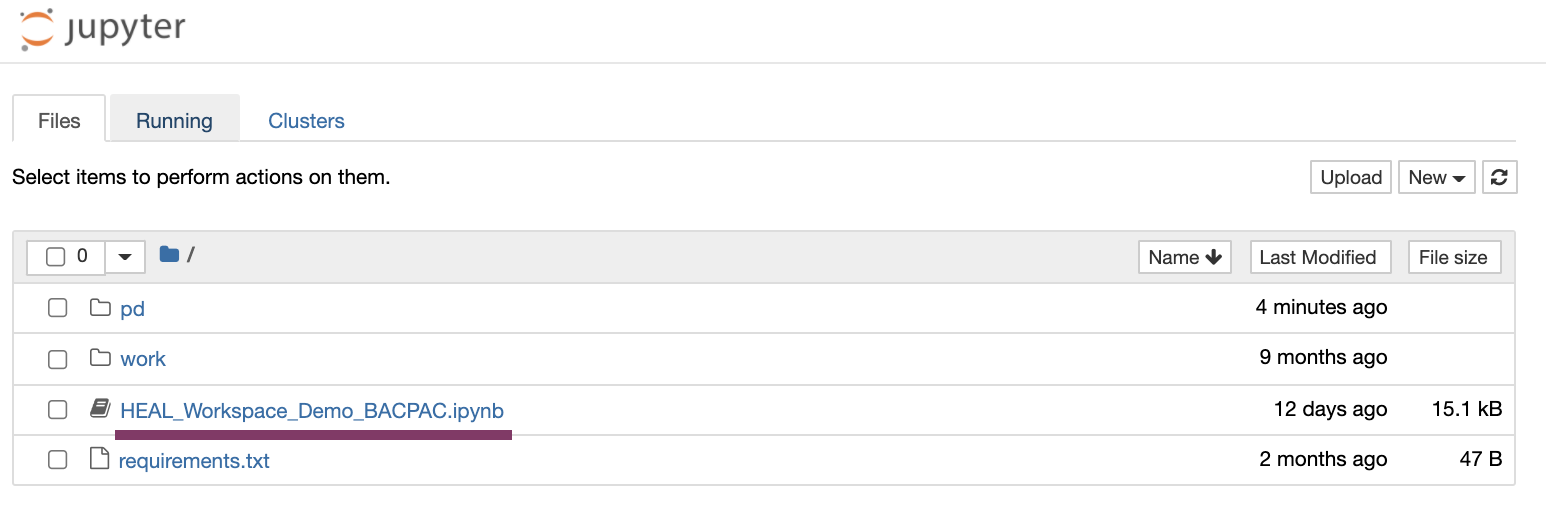
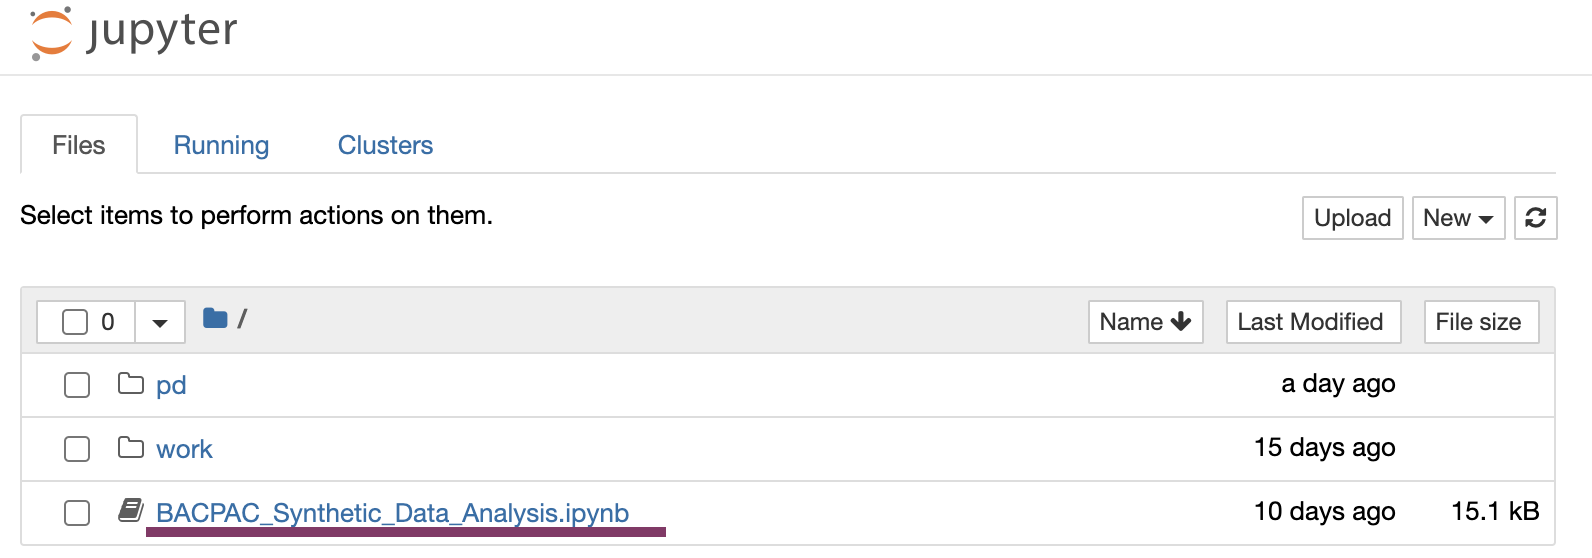
set2

Changed region(s): [[0.0, 0.1765, 0.9935, 1.0], [0.0, 0.0, 0.1552, 0.1176]]

diff --git a/qa-heal.planx-pla.net/dashboard/Public/documentation/index.html b/qa-heal.planx-pla.net/dashboard/Public/documentation/index.html
@@ -84,7 +84,6 @@
                         <a href="#AvailableWorkspaceTools">Environments, Languages, and Tools</a>
                         <a href="#PythonRInJupyter">Python 3 and RStudio in Jupyter</a>
                         <a href="#STATAinNotebooks">STATA in Jupyter</a>
-                        <a href="#RStudioEnvironment">RStudio environment</a>
                         <a href="#TroubleshootingWorkspaces">Troubleshooting</a>
                         <a href="#AutomaticWorkspaceShutdown">Automatic Workspace Shutdown</a>
 
@@ -629,7 +628,7 @@
                             </li>
                             <li>
                                 <a href="#Workspaces"
-                                    style="background-image: url('img/grid_workspace_color.png');"></a>
+                                    style="background-image: url('img/workspace_flavors.png');"></a>
                                 <div class="details">
                                     <h6><a href="#Workspaces">Workspaces</a></h6>
                                     <p class="image-author">Access data across multiple resources and perform analyses
@@ -1182,24 +1181,6 @@
                                 </li>
                             </ol>
 
-                            <p>
-                                If users work in the <span style="font-weight: bold">RStudio</span> environment, click
-                                "Terminal" on the left hand side. The home
-                                directory is
-                                <code>
-                        /home/rstudio
-                    </code>.
-                                In order to find the files, type in
-                                <code>
-                        cd ../../data/healdata.org
-                    </code>
-                                and
-                                <code>
-                        ls
-                    </code>
-                                to list all manifests.
-                                <a href="#RStudioEnvironment">Read more here</a>.
-                            </p>
 
 
 
@@ -1232,7 +1213,7 @@
                                         href="https://healdata.org/workspace">healdata.org/workspace</a>, users will
                                     discover a list of pre-configured virtual machine (VM) images, as shown below.
                                     <br> <br>
-                                    <img class="drop-shadow" src="img/workspace_flavors__.png" alt="Workspace_flavors"
+                                    <img class="drop-shadow" src="img/workspace_flavors.png" alt="Workspace_flavors"
                                         style="width:80%">
                                     <figcaption style="width:100%">
                                         Available workspaces on the HEAL Platform (top). Users can link accounts from
@@ -1273,13 +1254,13 @@
                                         They are your personal copies! <br><br>
                                         <ul>
                                             <li>
-                                                <em>Notebooks in Python</em>: (1) Bacpac Synthetic Data Analysis,
+                                                <em>Notebooks in Python</em>: (1) BACPAC Synthetic Data Analysis,
                                                 (2) JCOIN Tracking Opioid Stigma,
                                                 (3) Opioid Overdose Trajectories,
                                                 (4) Opioid Prevalence And Overdoses
                                             </li>
                                             <li>
-                                                <em>Notebooks in RStudio</em>: (1) OEPS and Opioid Toolkit
+                                                <em>Notebooks in RStudio</em>: (1) Opioid Environment Toolkit and OEPS
                                             </li>
                                         </ul>
                                     </li>
@@ -1438,7 +1419,7 @@
                                     RStudio<br>
                                     <img src="img/workspace_RStudio_logo.png" alt="workspace_RStudio_logo"
                                         style="width:20%"> <br>
-                                    (<a href="#RStudioEnvironment">read more</a>)
+                                    
 
                                 </li>
                             </ul>
@@ -1547,32 +1528,6 @@
                             </p>
 
 
-                            <h4 id="RStudioEnvironment" class="section-title">RStudio Environment</h4>
-                            <p>
-                                Users can make use of the preinstalled RStudio environment by launching the following
-                                workspace:
-                            </p>
-                            <img class="drop-shadow" src="img/workspace_RStudio_env.png" alt="workspace_RStudio_env"
-                                style="width:20%">
-                            <figcaption style="width:100%">
-                                Launch this workspace to enter the RStudio environment.
-                            </figcaption><br><br>
-                            <img class="drop-shadow" src="img/workspace_RStudio_env_landing.png"
-                                alt="workspace_RStudio_env_landing" style="width:80%">
-                            <figcaption style="width:100%">
-                                Landing page of the RStudio environment.
-                            </figcaption>
-
-                            <p>
-                                Find exported data files in manifests by selecting "Terminal" on the left side, and
-                                typing
-                                <code>
-                    cd ../../data/healdata.org
-                </code>
-                            </p>
-
-
-
                             <h4 id="TroubleshootingWorkspaces" class="section-title">Troubleshooting</h4>
                             <ul>
                                 <li>
@@ -1616,36 +1571,32 @@
                                 platform.
                             </p>
                             <blockquote>
-                                This tab acts as a <span style="font-weight: bold"><a
-                                        href=#CurrentlyAvailableNotebooks>'visual table of contents’</span></a>
+                                This tab acts as a <a
+                                        href=#CurrentlyAvailableNotebooks>'visual table of contents’</a>
                                 of available HEAL datasets.
                             </blockquote>
-                            <p></p>
-                            <img class="drop-shadow" src="img/grid_notebooks_color_.png"
-                                alt="grid_notebooks_color_" style="width:50%">
+                            <p>
+                                <span style="font-weight: bold;">“HEAL Static Notebooks” </span> <br>
+                                This video introduces users to the Static Notebooks page,
+                                where users can browse Jupyter notebook demos to explore
+                                previous data analyses on the HEAL platform.<br><br>
+                                <video controls width="500">
+
+                                    <source src="videos/Static NB HEAL video 2021-08-30.mp4" type="video/webm">
+
+                                    <source src="videos/Static NB HEAL video 2021-08-30.mp4" type="video/webm">
+                                </video>
+                                <br>
+                                If your Browser does not support watching this video, here's
+                                a <a href="videos/Opioid_Ovderdose_Traj_CDCWonder_Demo_2021-07-21.mp4">link to the
+                                    video</a> instead. <br> <br>
+                            </p>
+
+                            <img class="drop-shadow" src="img/grid_notebooks_color.png" alt="grid_notebooks_color"
+                                style="width:50%">
                             <figcaption>
-                                Workspaces automatically shut down after 90 minutes of idle time.
+                                Currently available static Jupter Notebooks.
                             </figcaption>
-
-
-                            <ul>
-                                <li>
-                                    <span style="font-weight: bold;">“HEAL Static Notebooks” </span> <br>
-                                    This video introduces users to the Static Notebooks page,
-                                    where users can browse Jupyter notebook demos to explore
-                                    previous data analyses on the HEAL platform.<br><br>
-                                    <video controls width="500">
-
-                                        <source src="videos/Static NB HEAL video 2021-08-30.mp4" type="video/webm">
-
-                                        <source src="videos/Static NB HEAL video 2021-08-30.mp4" type="video/webm">
-                                    </video>
-                                    <br>
-                                    If your Browser does not support watching this video, here's
-                                    a <a href="videos/Opioid_Ovderdose_Traj_CDCWonder_Demo_2021-07-21.mp4">link to the
-                                        video</a> instead. <br> <br>
-                                </li>
-                            </ul>
 
                             <h4 id="WhyStaticNotebooks" class="section-title">Why static Notebooks?</h4>
 
@@ -1729,7 +1680,7 @@
                                 </tr>
                                 <tr>
                                     <td>
-                                        BACPAC synthetic data analysis
+                                        BACPAC Synthetic Data Analysis
                                     </td>
                                     <td>
                                         Back Pain Consortium (BACPAC) <br>
@@ -1754,7 +1705,7 @@
                                 </tr>
                                 <tr>
                                     <td>
-                                        Tracking Stigma related to Opioid Use Disorder
+                                        JCOIN Tracking Opioid Stigma
                                     </td>
                                     <td>
                                         Methodology and Advanced <br>
@@ -1816,7 +1767,7 @@
                                 </tr>
                                 <tr>
                                     <td>
-                                        OEPS And Opioid Toolkit (<span style="font-weight: bold;"><a
+                                        Opioid Environment Toolkit and OEPS R(<span style="font-weight: bold;"><a
                                                 href="#Tutorials">Watch tutorial</a></span>)
                                     </td>
                                     <td>
@@ -1943,7 +1894,7 @@
                                     </figcaption><br><br>
                                 </li>
                                 <li>
-                                    Go to the Workspace tab and click “Launch” on the “Bacpac Synthetic Data Analysis
+                                    Go to the Workspace tab and click “Launch” on the “BACPAC Synthetic Data Analysis
                                     Notebook”. This may take a few minutes to load.<br>
                                     Note, that depending on the chosen notebook, this step varies to align with the name
                                     of the notebook/workspace.<br>
@@ -1952,7 +1903,7 @@
                                 </li>
                                 <li>
                                     Find and open the notebook in the landing directory. <br>
-                                    Open the notebook by clicking on “HEAL_Workspace_Demo_BACPAC".<br>
+                                    Open the notebook by clicking on “BACPAC_Synthetic_Data_Analysis.ipynb".<br>
                                     <img class="drop-shadow" src="img/static_notebook_bacpac_demo.png"
                                         alt="notebook_browser_notebook1" style="width:90%"><br><br>
                                 </li>

diff --git a/qa-heal.planx-pla.net/dashboard/Public/documentation/index.css b/qa-heal.planx-pla.net/dashboard/Public/documentation/index.css
@@ -79,7 +79,6 @@
     width: 25%;
     z-index: 1;
     background-color: #f1eeef; 
-
     overflow-x: hidden;
     /* margin-top: 50px; */
     position: flex;
@@ -92,7 +91,6 @@
     padding: 6px 6px 6px 32px;
     text-decoration: none;
     font-size: 1rem;
-    color: #1a3057;
     display: block;
   }
   
@@ -121,6 +119,7 @@
   .ul-sidenav-sub {
     padding-left: 15px;
     display: table;
+    color: #5c4c55;
   }
 
   .sidenav-head {
